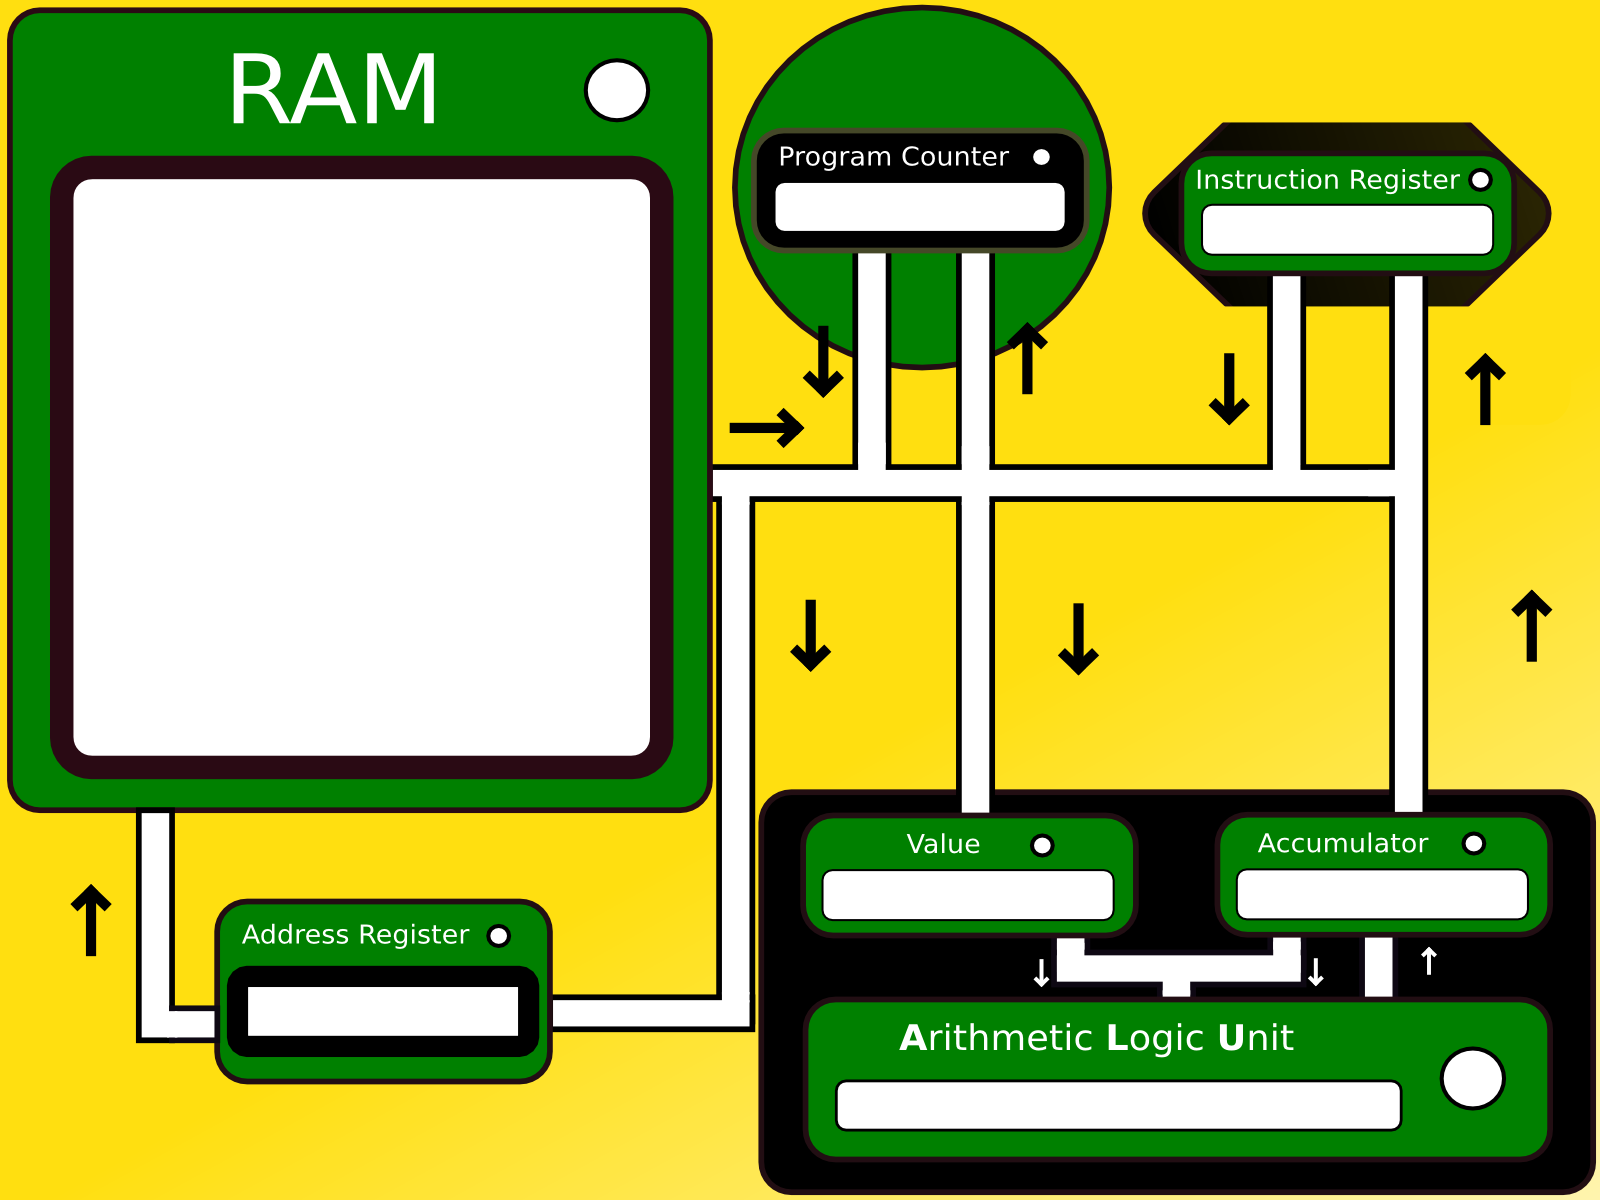
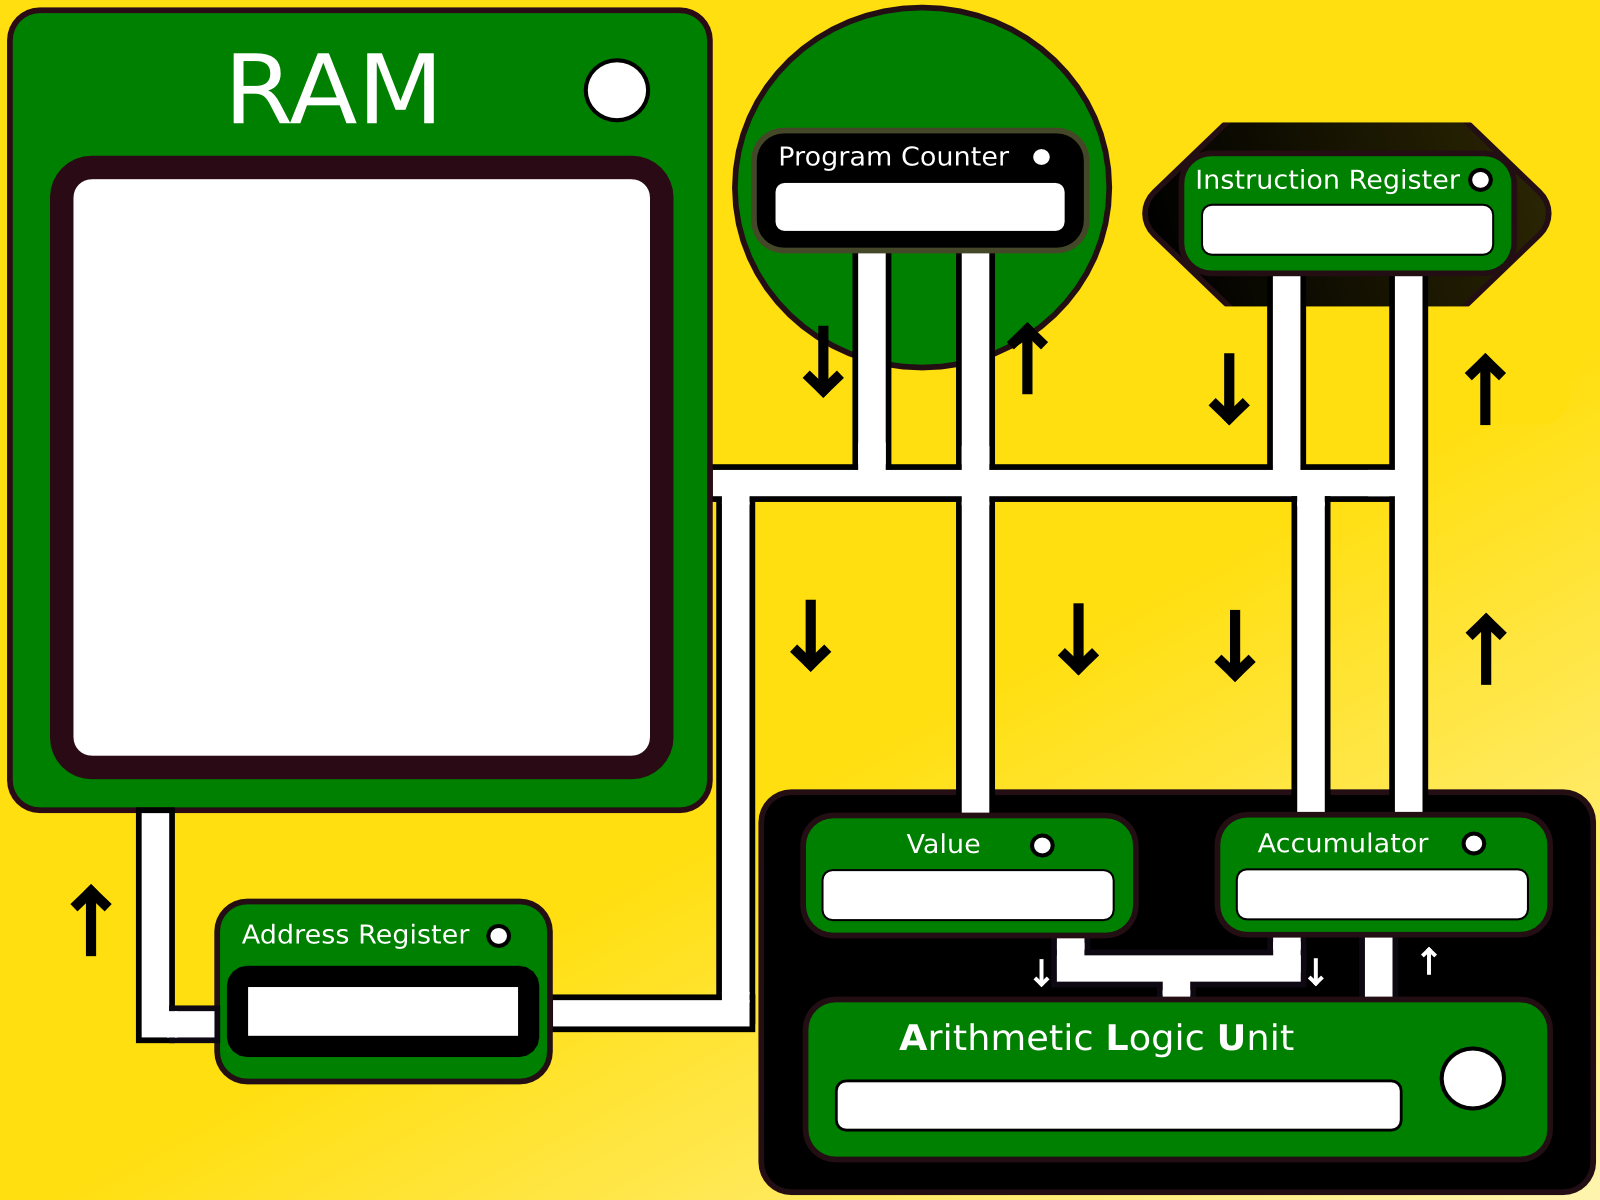
included new line from Ram to Accumulator; fixed bugs that were introduced with last commit

Changed region(s): [[0.75, 0.4008, 0.8438, 0.6783], [0.9062, 0.4933, 0.9688, 0.5858], [0.4375, 0.3392, 0.5, 0.37]]

diff --git a/src/assemblerSim/View.java b/src/assemblerSim/View.java
@@ -28,6 +28,7 @@ public class View extends JComponent
 	private Image line_ram_pc = Toolkit.getDefaultToolkit().getImage("images/lines/RAMProgramCounter.png");
 	private Image line_ram_value = Toolkit.getDefaultToolkit().getImage("images/lines/RAMValue.png");
 	private Image line_ram_ir = Toolkit.getDefaultToolkit().getImage("images/lines/RAMInstructionRegister.png");
+	private Image line_ram_acc = Toolkit.getDefaultToolkit().getImage("images/lines/RAMAccumulator.png");
 	private Image line_pc_ar = Toolkit.getDefaultToolkit().getImage("images/lines/ProgramCounterAddressRegister.png");
 	private Image line_pc_value = Toolkit.getDefaultToolkit().getImage("images/lines/ProgramCounterValue.png");
 	private Image line_pc_ir = Toolkit.getDefaultToolkit().getImage("images/lines/ProgramCounterInstructionRegister.png");
@@ -54,6 +55,7 @@ public class View extends JComponent
 	private Image line_ram_pc_scale = line_ram_pc;
 	private Image line_ram_value_scale = line_ram_value;
 	private Image line_ram_ir_scale = line_ram_ir;
+	private Image line_ram_acc_scale = line_ram_acc;
 	private Image line_pc_ar_scale = line_pc_ar;
 	private Image line_pc_value_scale = line_pc_value;
 	private Image line_pc_ir_scale = line_pc_ir;
@@ -252,6 +254,10 @@ public class View extends JComponent
 		case 24:
 			// ALU LED
 			g.drawImage(led_alu_scale,0,0, this);
+			break;
+		case 25:
+			// RAM to Accumulator
+			g.drawImage(line_ram_acc_scale,0,0, this);
 			break;
 		}
 		

diff --git a/src/assemblerSim/VonNeumannRechner.java b/src/assemblerSim/VonNeumannRechner.java
@@ -84,6 +84,7 @@ public class VonNeumannRechner
 		setRam(new int[ram.length]);
 		nextStep = STEP_FETCH;
 		resetMicro();
+		jmpFlag = false;
 		controller.setCycleDisplay("FETCH");
 	}
 	
@@ -213,11 +214,13 @@ public class VonNeumannRechner
 		case LOAD:
 			loadRamToAcc();
 			increaseProgramCounter();
+			nextStep = STEP_FETCH;
 			break;
 		case STOREI:
 		case STORE:
 			storeAccToRam();
 			increaseProgramCounter();
+			nextStep = STEP_FETCH;
 			break;
 			//TODO switch the rest of the functions to the new system and clean up
 		case ADDI:
@@ -603,12 +606,14 @@ public class VonNeumannRechner
 	{
 		programCounter = instructionRegister&0xFFFFFF/**16777215**/%ram.length;
 		controller.setRegister(PROGRAMMCOUNTER, programCounter);
+		nextStep = STEP_FETCH;
 	}
 	
 	private void loadJmp()
 	{
 		programCounter = ram[addressRegister];
 		controller.setRegister(PROGRAMMCOUNTER, programCounter);
+		nextStep = STEP_FETCH;
 	}
 	
 	private void checkEQ()
